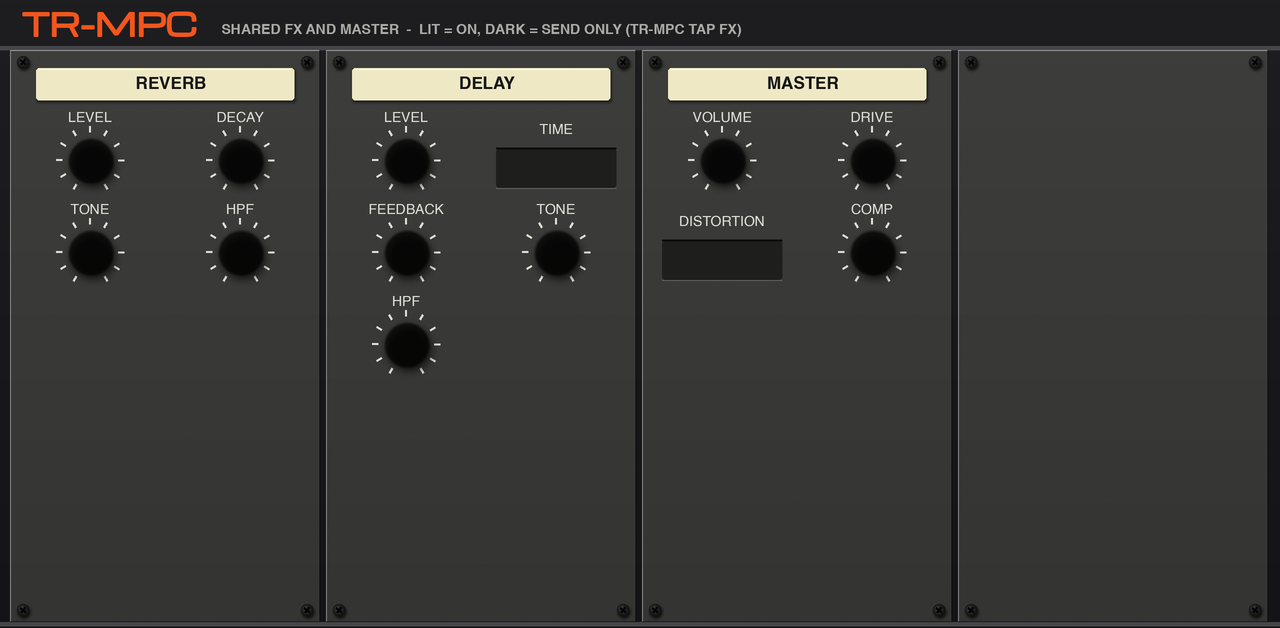
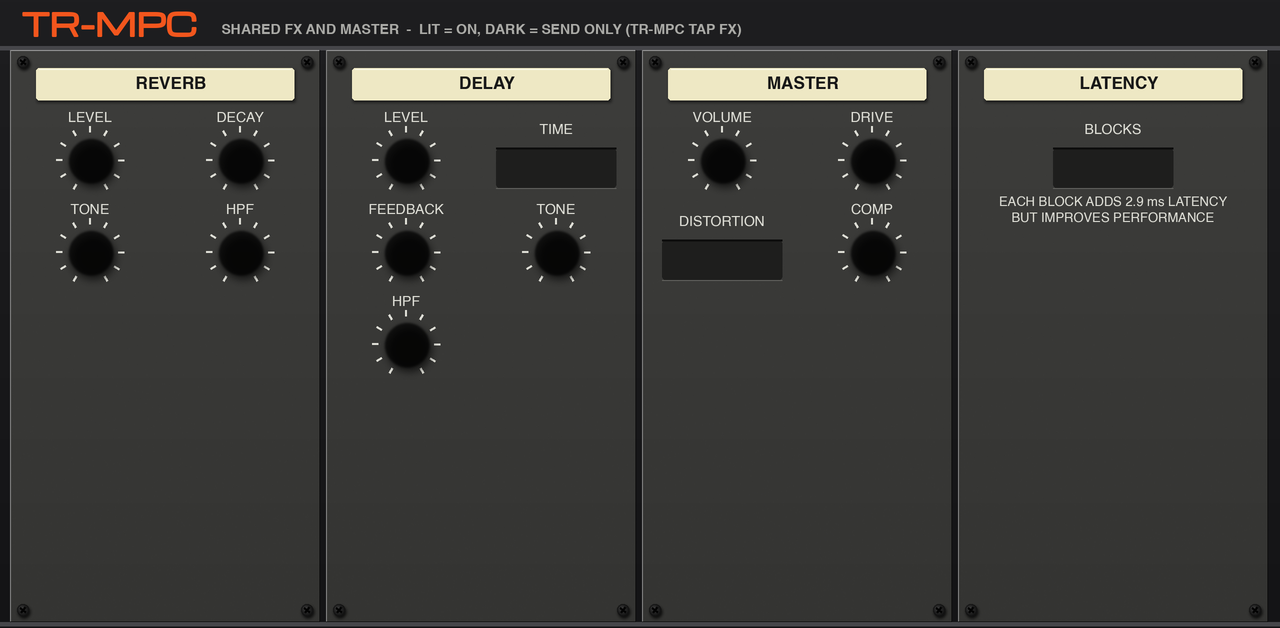
TR-MPC: Gen2 build plays the 808 and 909 voices on the Lemus boards, with a kit-wide Latency
The aarch64 build (cflags_aarch64: TRKIT_LEMUS, SC808_ENGINE_LEMUS, ER99_ENGINE_LEMUS) uses 8X8's and
9X9's circuit engines; the armv7 build keeps 8W8's and 9W9's (the Lemus sources go in through
src/lemus/*.cpp wrappers that are empty unless TRKIT_LEMUS; the Gen1 binary has none of it). The tap
patches cover the Lemus render loops too. Latency (appended last, default 1 block): both boards render
that far ahead and the 606 and CR-78 hits wait as long, so the kit stays in time (x86: 808, 909 and
606 hits start in the same block at 0, 1 and 2). FX/MASTER's empty fourth module is LATENCY, with
the caption 'each block adds 2.9 ms latency but improves performance'. Gen1 ignores it. The 909's
ROMs go in the plugin's engine/roms.

Live III, paced bench, latency 1: PASS, audio thread p99 10.2%, worst 12.1%, render threads up to
73% of a core; no missed block while playing (up to 16 voices), ~14 missed (808) during and after
the all-knob Q-Link sweep, whose Tune/Decay moves rebuild the 808's boards.

Claude-Session: https://claude.ai/code/session_01CpoP2tyczrc1RfDSUdufnj

Changed region(s): [[0.75, 0.0908, 0.9688, 0.3631]]

diff --git a/ports/trkit/src/trkit.cpp b/ports/trkit/src/trkit.cpp
@@ -11,7 +11,12 @@
  *   - an engine that has been silent for a few seconds is not rendered until the next trigger.
  *
  * Pads: MIDI notes 36..51 -> slots 1..16 (MPC drum-pad default, C1 upward), or 0..15 with the drum-pad patch.
- * GPL-3.0, as the kits it links.
+ *
+ * Gen2 (TRKIT_LEMUS, the aarch64 build): the 808 and 909 voices are 8X8's and 9X9's circuit-solved voicing boards
+ * (Lemus), each rendered by its own thread `latency` blocks ahead (lemus_ahead.h). One kit-wide Latency (0..3 blocks of
+ * 128, 2.9 ms each) goes to both, and the 606 and CR-78 hits wait that many blocks so the kit stays in time. Gen1 keeps
+ * the 8W8 and 9W9 engines and ignores Latency.
+ * GPL-3.0, as the kits it links; the Gen2 build AGPL-3.0, with Lemus.
  */
 #include <stdint.h>
 #include <stdio.h>
@@ -158,7 +163,18 @@ struct Inst {
     bool tap_owner;            /* this Inst publishes the slot planes for the Tap plugins */
     int16_t pending[kBlock * 2];   /* the owner outputs one block behind what it publishes, so a tap called before it in a period still finds its block */
     bool have_pending;
+    int latency;                   /* 0..3 blocks (Gen2): the circuit engines render this far ahead */
+    int lat_sent[kNumBackends];    /* what each engine was last told (-1: not yet) */
+    struct Held { int b, v, vel, blocks; } held[64];   /* 606 / CR-78 hits waiting out the latency */
+    int nheld;
 };
+
+#ifndef TRKIT_LEMUS
+#define TRKIT_LEMUS 0
+#endif
+/* the engines that render ahead by themselves (Gen2's circuit boards) */
+inline bool renders_ahead(int b) { return TRKIT_LEMUS && (b == 1 || b == 3); }
+inline int effective_latency(const Inst *in) { return TRKIT_LEMUS ? in->latency : 0; }
 
 void *engine_for(Inst *in, int b) {
     if (!in->eng[b]) {
@@ -196,6 +212,8 @@ void *create(const char *dir) {
     for (int s = 0; s < kSlots; ++s) { in->pan[s] = 64; in->rev[s] = 0; in->dly[s] = 0; }
     in->int_rev = in->int_dly = in->int_comp = 1;
     in->rnd_amount = 64; in->rng = 0x9e3779b9u ^ (uint32_t)(uintptr_t)in;
+    in->latency = 1;
+    for (int b = 0; b < kNumBackends; ++b) in->lat_sent[b] = -1;
     { const void *none = nullptr; in->tap_owner = g_tap.owner.compare_exchange_strong(none, in); }
     engine_for(in, kFxBackend);
     for (int s = 0; s < kSlots; ++s) { int b, v; flat_to_bv(in->slot_flat[s], &b, &v); engine_for(in, b); }
@@ -218,7 +236,16 @@ void midi(void *p, const uint8_t *m, int len) {
     if (slot < 0 || slot >= kSlots) return;
     int b, v;
     flat_to_bv(in->slot_flat[slot], &b, &v);
-    if (void *e = engine_for(in, b)) { in->voice_owner[b][v] = slot; kBackends[b].trigger(e, v, m[2]); in->quiet[b] = 0; }
+    void *e = engine_for(in, b);
+    if (!e) return;
+    in->voice_owner[b][v] = slot;
+    in->quiet[b] = 0;
+    const int lat = effective_latency(in);
+    if (lat > 0 && !renders_ahead(b)) {   /* held back to sound with the circuit boards' hits */
+        if (in->nheld < (int)(sizeof in->held / sizeof in->held[0])) in->held[in->nheld++] = { b, v, m[2], lat };
+        return;
+    }
+    kBackends[b].trigger(e, v, m[2]);
 }
 
 /* keys: sNN_src (flat voice index), sNN_level/tune/decay/drive (the voice's pots), sNN_pan/rev/dly (the slot's),
@@ -301,6 +328,7 @@ void set_param(void *p, const char *key, const char *val) {
     const int x = atoi(val);
     if (!strcmp(key, "state")) { set_state(in, val); return; }
     if (!strcmp(key, "edit_slot")) { in->edit_slot = x < 0 ? 0 : (x >= kSlots ? kSlots - 1 : x); return; }
+    if (!strcmp(key, "latency")) { in->latency = x < 0 ? 0 : (x > 3 ? 3 : x); return; }
     if (!strncmp(key, "rnd_", 4)) {
         if (!strcmp(key, "rnd_go")) { if (x) randomise(in); }
         else if (!strcmp(key, "rnd_go_voice")) { if (x) randomise(in, true); }
@@ -370,7 +398,7 @@ int get_state(Inst *in, char *buf, int n) {
         if (len >= n - 32) break;
     }
     /* after the fx values: switching the compressor off saves the Comp value set above */
-    len += snprintf(buf + len, n - len, "int_rev=%d;int_dly=%d;int_comp=%d;", in->int_rev, in->int_dly, in->int_comp);
+    len += snprintf(buf + len, n - len, "int_rev=%d;int_dly=%d;int_comp=%d;latency=%d;", in->int_rev, in->int_dly, in->int_comp, in->latency);
     return len;
 }
 
@@ -396,6 +424,7 @@ int get_param(void *p, const char *key, char *buf, int n) {
     int slot; const char *rest;
     if (!strcmp(key, "state")) return get_state(in, buf, n);
     if (!strcmp(key, "edit_slot")) return snprintf(buf, n, "%d", in->edit_slot);
+    if (!strcmp(key, "latency")) return snprintf(buf, n, "%d", in->latency);
     if (!strncmp(key, "rnd_", 4)) {
         if (!strcmp(key, "rnd_go") || !strcmp(key, "rnd_go_voice") || !strcmp(key, "rnd_all") || !strcmp(key, "rnd_none")) return snprintf(buf, n, "0");
         if (!strcmp(key, "rnd_amount")) return snprintf(buf, n, "%d", in->rnd_amount);
@@ -465,6 +494,17 @@ void render(void *p, int16_t *out, int frames) {
     static thread_local float scratch[kBlock], dl[kBlock], dr[kBlock], sr[kBlock], sd[kBlock], ol[kBlock], orr[kBlock];
     for (int done = 0; done < frames; done += kBlock) {
         const int n = frames - done < kBlock ? frames - done : kBlock;
+        /* the latency to the circuit engines; held 606 / CR-78 hits whose wait is over (queued with the latency before
+         * call k, the boards' hits sound from call k + latency: count it down, fire at the next) */
+        const int lat = effective_latency(in);
+        for (int b = 0; b < kNumBackends; ++b)
+            if (renders_ahead(b) && in->eng[b] && in->lat_sent[b] != lat) { kBackends[b].set(in->eng[b], "latency", lat); in->lat_sent[b] = lat; }
+        for (int h = 0; h < in->nheld; ) {
+            Inst::Held &hd = in->held[h];
+            if (hd.blocks > 0) { hd.blocks--; ++h; continue; }
+            if (in->eng[hd.b]) { kBackends[hd.b].trigger(in->eng[hd.b], hd.v, hd.vel); in->quiet[hd.b] = 0; }
+            in->held[h] = in->held[--in->nheld];
+        }
         memset(dl, 0, sizeof(float) * n); memset(dr, 0, sizeof(float) * n);
         memset(sr, 0, sizeof(float) * n); memset(sd, 0, sizeof(float) * n);
         const bool pub = in->tap_owner && n == kBlock;

diff --git a/tools/trmpc_skin.py b/tools/trmpc_skin.py
@@ -345,9 +345,15 @@ def fx_page(out):
         t.hi.paste(cut(kt), (px * SS, MT * SS))
         lines.append('toggle cx=%d cy=%d label="" key=%s bw=240 ns=0 %s' % (px + PW // 2, 540 + Y_OFF, ikey,
                                                                key_attrs(out, "key_" + ikey, 240, 70, title, ORANGE, 24)))
-    kt = kit_tab(kit, g)                    # a blank module fills the fourth place
-    module_edges(kt, XM, title=False)
-    t.hi.paste(cut(kt), ((PX0 + 3 * PPITCH) * SS, MT * SS))
+    kt = kit_tab(kit, g)                    # the fourth place: LATENCY (Gen2's circuit engines render ahead; Gen1 ignores it)
+    module_edges(kt, XM, title=True)
+    kt.text(XM + PW / 2 + 6, TITLE_Y, "LATENCY", 17, (24, 24, 24), "bold")
+    px, cy = PX0 + 3 * PPITCH, g["rows"][0]
+    kt.popup("x", XM + PW // 2, cy + 8, "BLOCKS")
+    for n, line in enumerate(("EACH BLOCK ADDS 2.9 ms LATENCY", "BUT IMPROVES PERFORMANCE")):
+        kt.text(XM + PW / 2, cy + 8 + 34 + 16 * n, line, 13)
+    lines.append('popup cx=%d cy=%d w=112 h=36 label="" key=latency accent=%s' % (px + PW // 2, cy + 8 + Y_OFF, DIST_INK[kit]))
+    t.hi.paste(cut(kt), (px * SS, MT * SS))
     out.lines += ["", "[tab FX/MASTER]", "art file=%s fit=stretch" % page_image(out, t, "fx")] + lines
     out.lines.append('qlinks "FX/MASTER" = fx_rev_level,fx_rev_decay,fx_rev_tone,fx_rev_hpf,fx_dly_level,fx_dly_time,fx_dly_fdbk,'
                      'fx_dly_tone,fx_volume,fx_master_drive,fx_master_dist,fx_comp,int_rev,int_dly,int_comp,fx_dly_hpf')

diff --git a/tools/gen_trkit_params.py b/tools/gen_trkit_params.py
@@ -108,6 +108,10 @@ for key, name in (("int_rev", "Internal Reverb"), ("int_dly", "Internal Delay"),
 sections.append({"label": "Internal FX", "keys": ix})
 params.append({"key": "rnd_go_voice", "name": "Random Voices", "momentary": True})
 sections[[s["label"] for s in sections].index("Randomise")]["keys"].append("rnd_go_voice")
+# Gen2: the circuit engines render this many 128-frame blocks ahead (2.9 ms each); Gen1 ignores it
+params.append({"key": "latency", "name": "Latency", "default": 1,
+               "options": ["0 blocks (0 ms)", "1 block (+2.9 ms)", "2 blocks (+5.8 ms)", "3 blocks (+8.7 ms)"]})
+sections[[s["label"] for s in sections].index("FX and master")]["keys"].append("latency")
 
 for p in params:   # the jog wheel: a click moves a knob three steps (wrapper "nudge_gain", mpc-vst-plugins)
     if "options" not in p and not p.get("momentary") and "min" in p and "max" in p:

diff --git a/ports/trkit/src/lemus/tr808_oversampler.cpp b/ports/trkit/src/lemus/tr808_oversampler.cpp
@@ -1,0 +1,4 @@
+/* TR-MPC Gen2 (TRKIT_LEMUS): Lemus TR-808 oversampler.cpp; empty in the Gen1 build. AGPL-3.0 (with Lemus). */
+#if TRKIT_LEMUS
+#include "../../../8w8/src/vendor/lemus/tr808/core/oversampler.cpp"
+#endif

diff --git a/ports/trkit/src/lemus/tr909_oversampler.cpp b/ports/trkit/src/lemus/tr909_oversampler.cpp
@@ -1,0 +1,4 @@
+/* TR-MPC Gen2 (TRKIT_LEMUS): Lemus TR-909 oversampler.cpp; empty in the Gen1 build. AGPL-3.0 (with Lemus). */
+#if TRKIT_LEMUS
+#include "../../../9w9/src/vendor/lemus/tr909/core/oversampler.cpp"
+#endif

diff --git a/ports/trkit/src/lemus/tr808_voiceboard.cpp b/ports/trkit/src/lemus/tr808_voiceboard.cpp
@@ -1,0 +1,4 @@
+/* TR-MPC Gen2 (TRKIT_LEMUS): Lemus TR-808 voiceboard.cpp; empty in the Gen1 build. AGPL-3.0 (with Lemus). */
+#if TRKIT_LEMUS
+#include "../../../8w8/src/vendor/lemus/tr808/core/voiceboard.cpp"
+#endif

diff --git a/ports/trkit/src/lemus/tr909_voiceboard.cpp b/ports/trkit/src/lemus/tr909_voiceboard.cpp
@@ -1,0 +1,4 @@
+/* TR-MPC Gen2 (TRKIT_LEMUS): Lemus TR-909 voiceboard.cpp; empty in the Gen1 build. AGPL-3.0 (with Lemus). */
+#if TRKIT_LEMUS
+#include "../../../9w9/src/vendor/lemus/tr909/core/voiceboard.cpp"
+#endif

diff --git a/ports/trkit/src/lemus/tr808_parallel.cpp b/ports/trkit/src/lemus/tr808_parallel.cpp
@@ -1,0 +1,4 @@
+/* TR-MPC Gen2 (TRKIT_LEMUS): Lemus TR-808 parallel.cpp; empty in the Gen1 build. AGPL-3.0 (with Lemus). */
+#if TRKIT_LEMUS
+#include "../../../8w8/src/vendor/lemus/tr808/core/parallel.cpp"
+#endif

diff --git a/ports/trkit/src/lemus/tr808_trimmers.cpp b/ports/trkit/src/lemus/tr808_trimmers.cpp
@@ -1,0 +1,4 @@
+/* TR-MPC Gen2 (TRKIT_LEMUS): Lemus TR-808 trimmers.cpp; empty in the Gen1 build. AGPL-3.0 (with Lemus). */
+#if TRKIT_LEMUS
+#include "../../../8w8/src/vendor/lemus/tr808/core/trimmers.cpp"
+#endif

diff --git a/ports/trkit/src/lemus/tr909_parallel.cpp b/ports/trkit/src/lemus/tr909_parallel.cpp
@@ -1,0 +1,4 @@
+/* TR-MPC Gen2 (TRKIT_LEMUS): Lemus TR-909 parallel.cpp; empty in the Gen1 build. AGPL-3.0 (with Lemus). */
+#if TRKIT_LEMUS
+#include "../../../9w9/src/vendor/lemus/tr909/core/parallel.cpp"
+#endif

diff --git a/ports/trkit/src/lemus/tr808_circuit.cpp b/ports/trkit/src/lemus/tr808_circuit.cpp
@@ -1,0 +1,4 @@
+/* TR-MPC Gen2 (TRKIT_LEMUS): Lemus TR-808 circuit.cpp; empty in the Gen1 build. AGPL-3.0 (with Lemus). */
+#if TRKIT_LEMUS
+#include "../../../8w8/src/vendor/lemus/tr808/core/circuit.cpp"
+#endif

diff --git a/ports/trkit/src/lemus/tr808_factory.cpp b/ports/trkit/src/lemus/tr808_factory.cpp
@@ -1,0 +1,4 @@
+/* TR-MPC Gen2 (TRKIT_LEMUS): Lemus TR-808 factory.cpp; empty in the Gen1 build. AGPL-3.0 (with Lemus). */
+#if TRKIT_LEMUS
+#include "../../../8w8/src/vendor/lemus/tr808/core/factory.cpp"
+#endif
